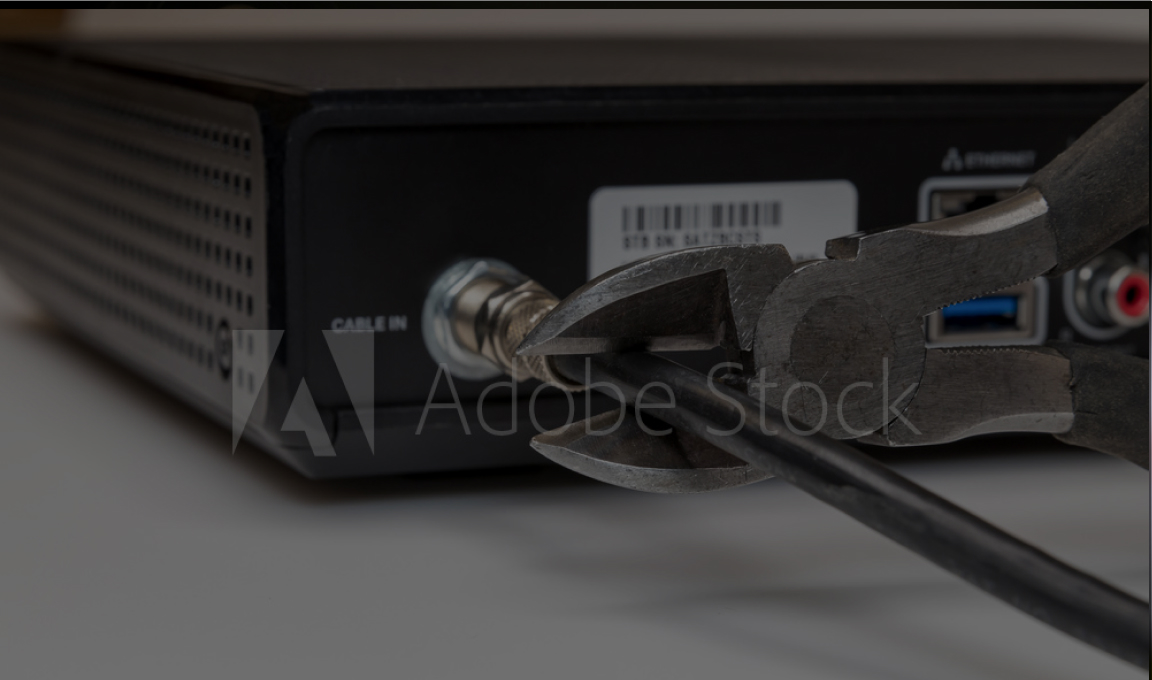
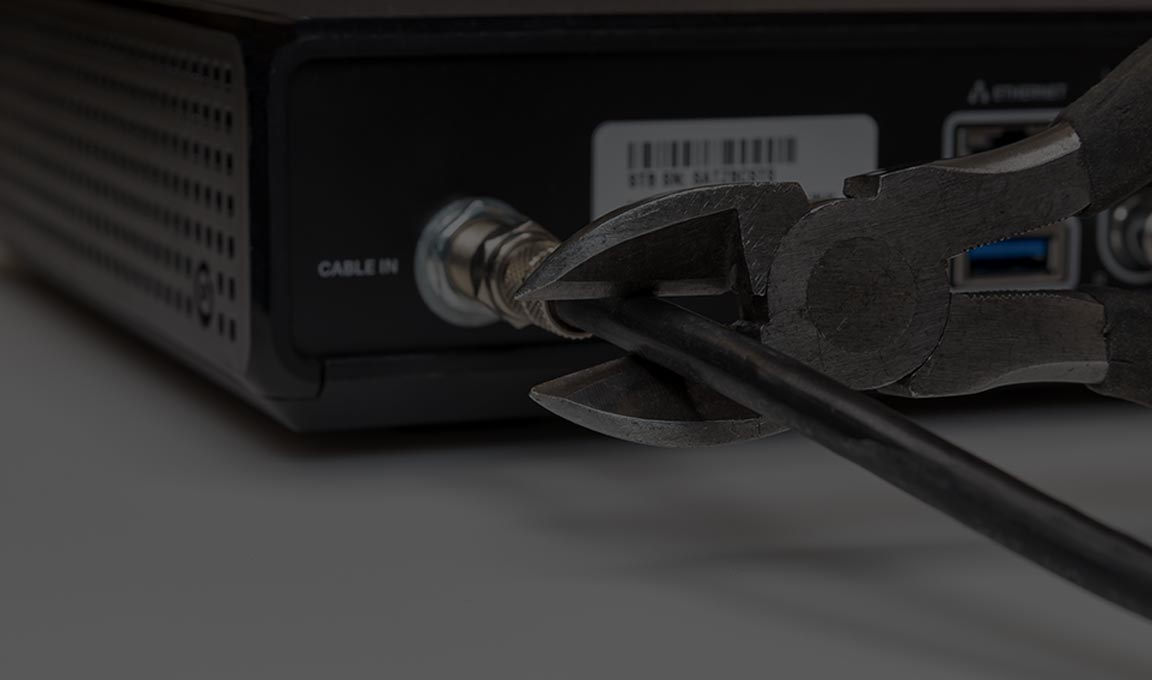
Update background images

diff --git a/lp/cut-the-cord-v1.html b/lp/cut-the-cord-v1.html
@@ -84,7 +84,7 @@ height="0" width="0" style="display:none;visibility:hidden"></iframe></noscript>
   <div class="tc pv4">
     <img src="../img/ubif-logo.png" alt="UBREAKIFIX" class="center">
   </div>
-  <div class="bg-near-black pv4 pv5-ns ph3 ph0-ns cover contain-ns" style="background: #333 url(../img/cord-cutting-bg.jpg) center 0 repeat-x;">
+  <div class="bg-near-black pv4 pv5-ns ph3 ph0-ns cover" style="background: #333 url(../img/cord-cutting-bg.jpg) center 0 no-repeat;">
     <h1 class="white tc ttu bebas f1 f-subheadline-ns mb2">Don't know how to cut the cord?</h1>
     <p class="white tc f4 f3-ns mw7 center lh-copy roboto mb4 mb5-ns">Sick of paying for your cable bill but don’t understand streaming? We’ll hold your hand through the process to help you save money and get the best TV experience.</p>
     <div class="bg-white mw7 center pa4 pa4-ns br2">
